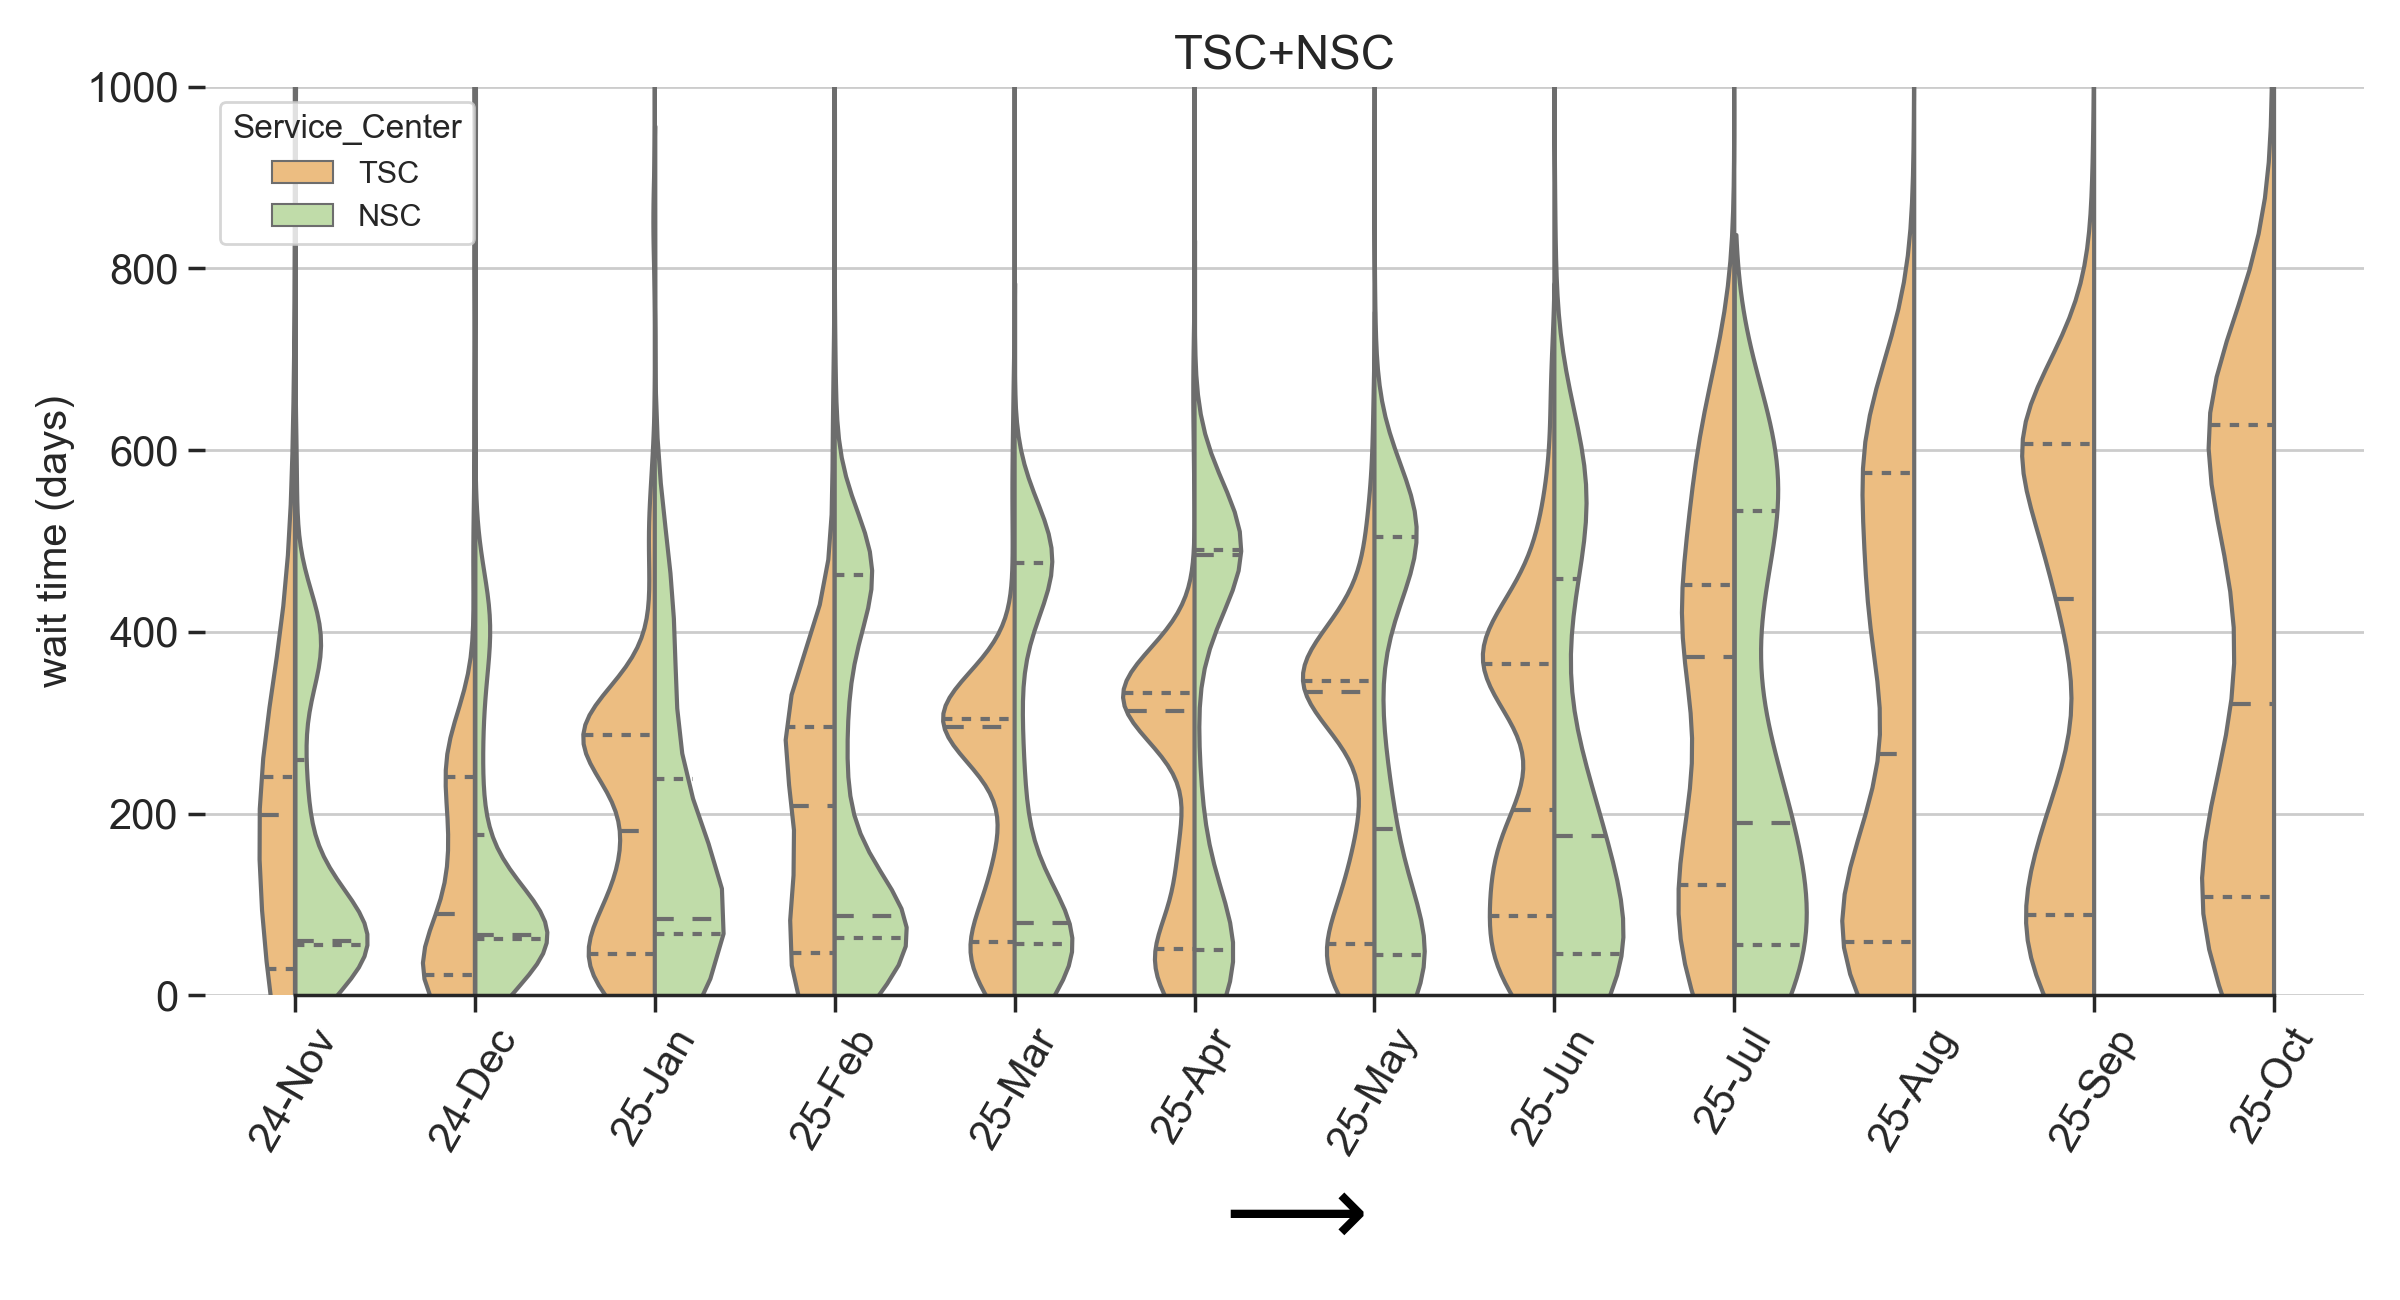
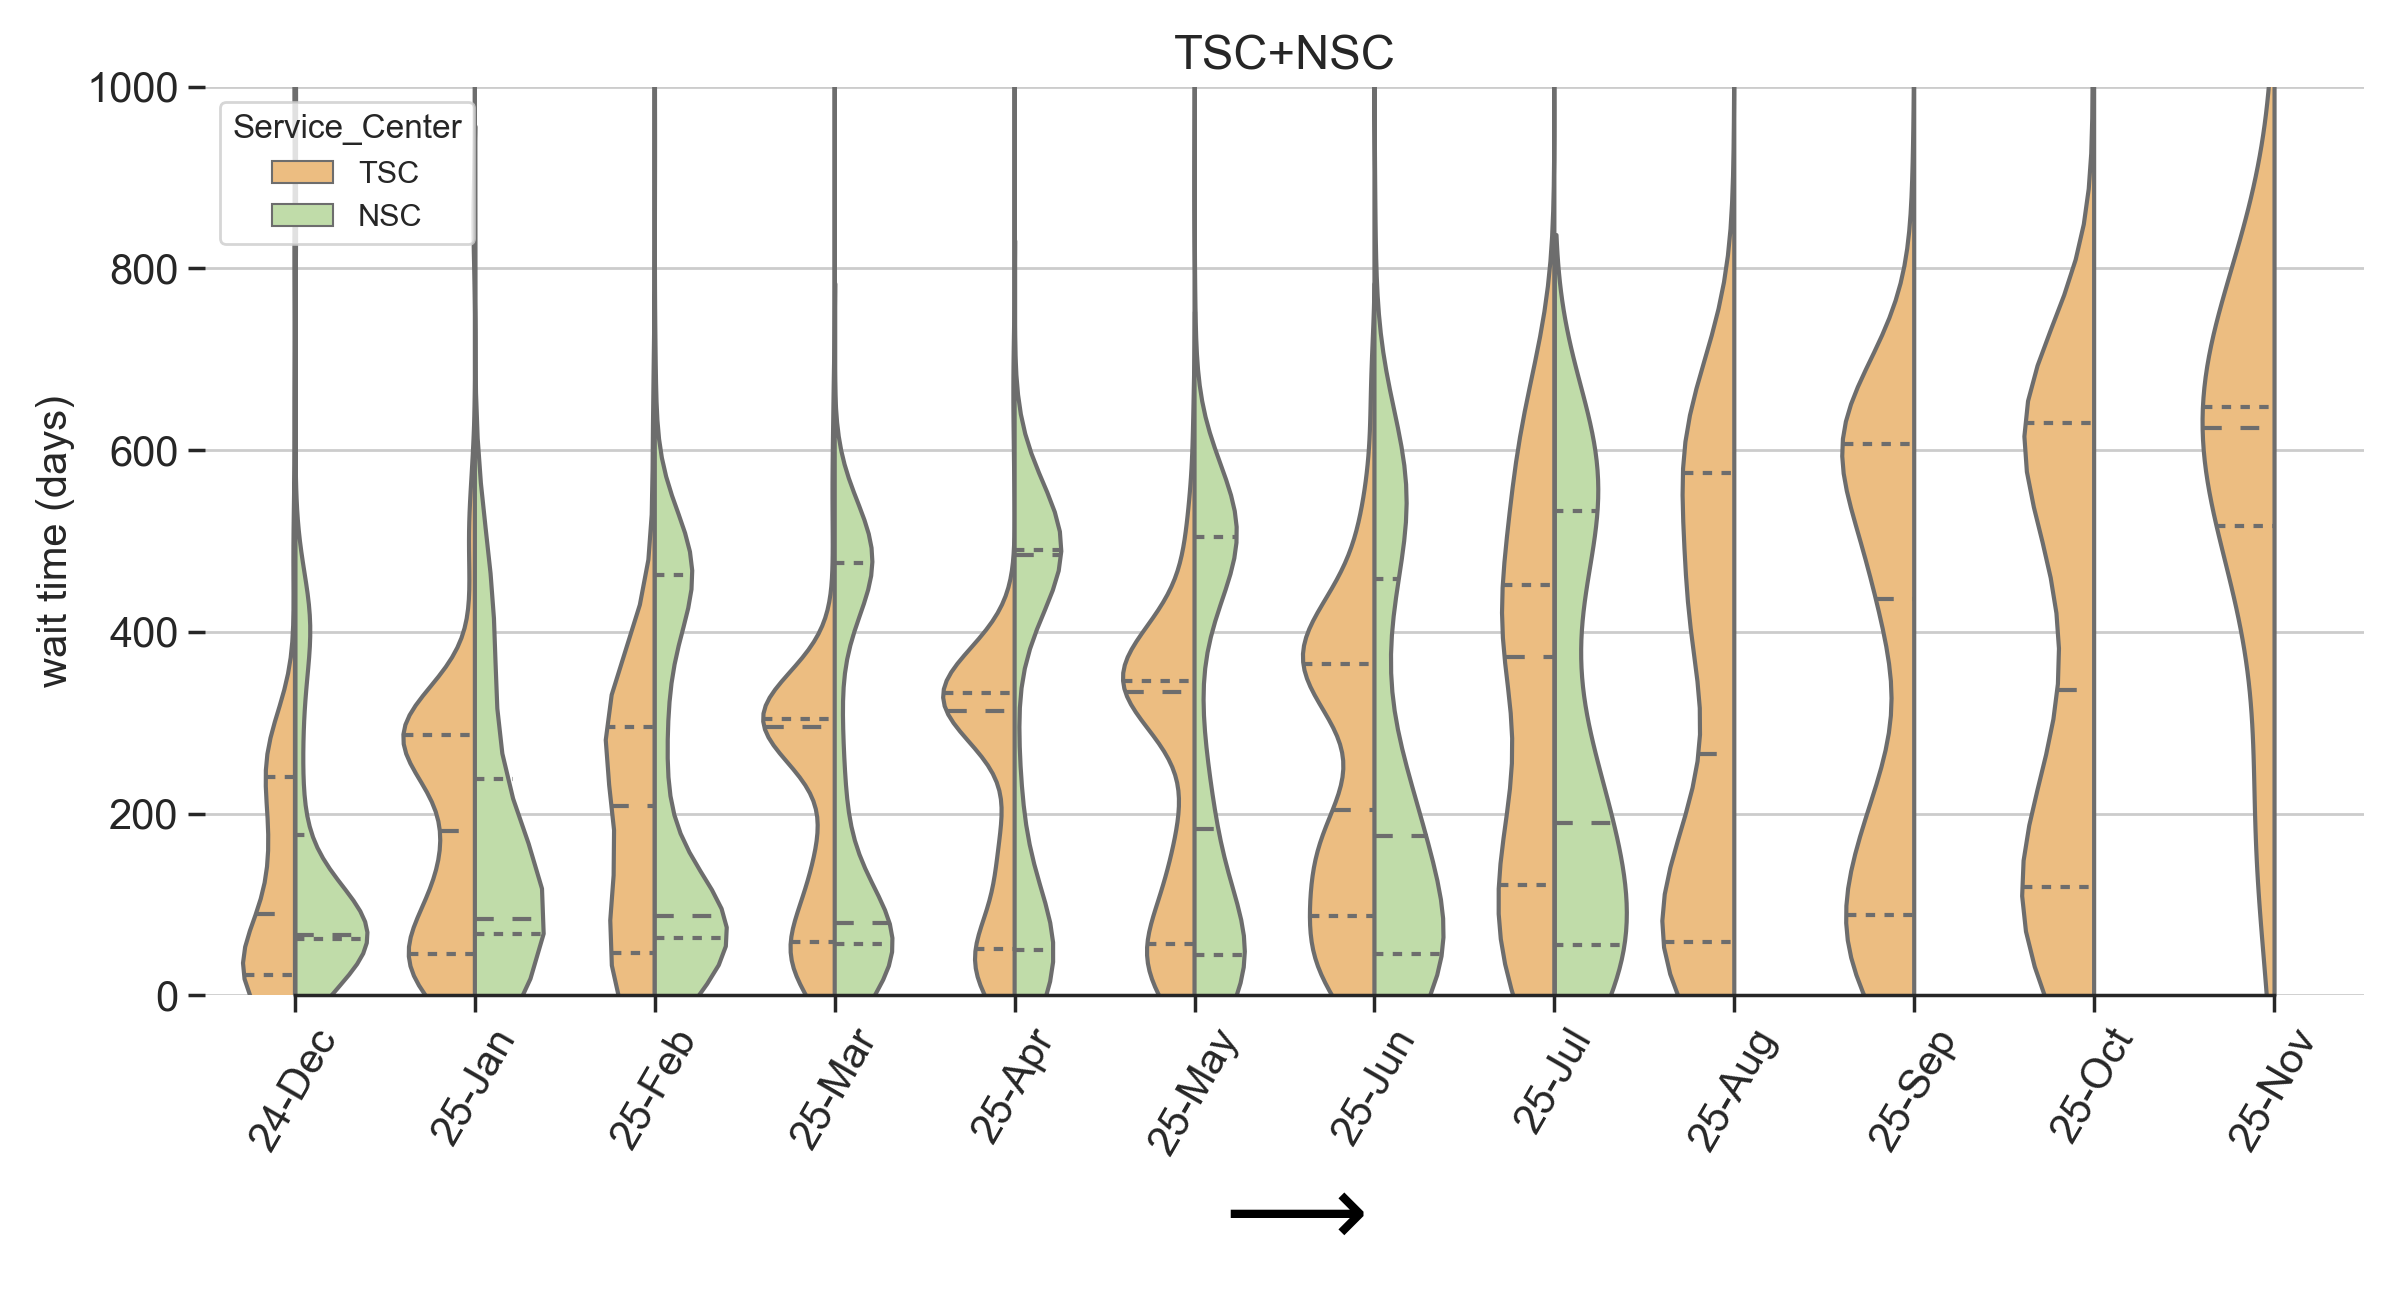
Nov-15 update

diff --git a/README.md b/README.md
@@ -1,4 +1,4 @@
-## National Interest Waiver Wait Time, updated Nov-06-2025 
+## National Interest Waiver Wait Time, updated Nov-15-2025 
 * sec203(b)(2), Indiv w/Adv Deg or Exceptional Ability in National Interest are counted as NIW cases from now on. 
  
 USCIS Employment-based-2 NIW I-140 wait time before approval (data source: [Victoria Chen](https://www.wegreened.com/eb1_niw_approvals)). 
